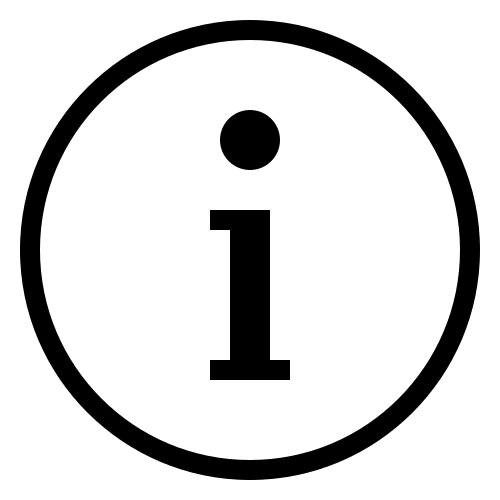
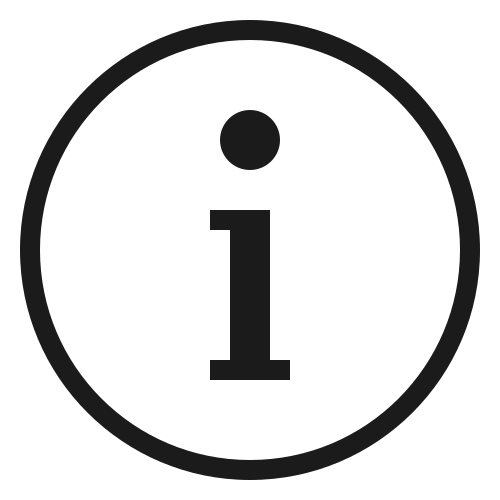
Fix: re-color pngs

Changed region(s): [[0.03, 0.03, 0.96, 0.96], [0.42, 0.42, 0.6, 0.78], [0.42, 0.21, 0.57, 0.36]]

diff --git a/README.md b/README.md
@@ -7,11 +7,5 @@ libary manager desktop app for i9ama
     - popup to validate if book is taken
 - admin list of booked books
 - edit book booked info
-- [x] fix tag, many to many
-    - [x] fix book filter
 ### EASY (30 mins max)
-- [x] user img on top
-- [x] color book if time is out
-- [x] remove cross or add functionalty
-- re color icon to browen
 - fix the date spegeti codeqq
